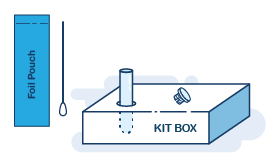
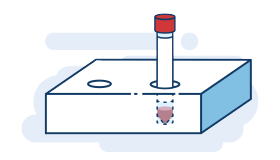
Second round of images

diff --git a/FluStudy/src/ui/screens/SurveyScreens.tsx b/FluStudy/src/ui/screens/SurveyScreens.tsx
@@ -246,6 +246,9 @@ class ScanInstructionsScreen extends React.Component<Props & WithNamespaces> {
             />
           </View>
         }
+        imageAspectRatio={1.75}
+        imageBorder={false}
+        imageSrc={require("../../img/barCodeOnBox.png")}
         navigation={this.props.navigation}
         skipButton={true}
         title={t("scanQrCode")}
@@ -253,12 +256,6 @@ class ScanInstructionsScreen extends React.Component<Props & WithNamespaces> {
           await this._onNext();
         }}
       >
-        <BorderView>
-          <Image
-            style={{ height: 180, width: 250 }}
-            source={require("../../img/barcodeBox.png")}
-          />
-        </BorderView>
         <Text content={t("tips")} style={{ marginBottom: GUTTER / 2 }} />
       </Screen>
     );
@@ -1947,8 +1944,9 @@ class CleanSecondTestScreen extends React.Component<Props & WithNamespaces> {
       <Screen
         canProceed={true}
         desc={t("description")}
-        imageBorder={true}
-        imageSrc={require("../../img/tbd.png")}
+        imageAspectRatio={1.75}
+        imageBorder={false}
+        imageSrc={require("../../img/cleanUp2ndTest.png")}
         navigation={this.props.navigation}
         title={t("title")}
         onNext={() => {
@@ -2021,8 +2019,9 @@ class StickersScreen extends React.Component<Props & WithNamespaces> {
       <Screen
         canProceed={true}
         desc={t("description")}
-        imageBorder={true}
-        imageSrc={require("../../img/tbd.png")}
+        imageAspectRatio={1.75}
+        imageBorder={false}
+        imageSrc={require("../../img/putStickersOnBox.png")}
         navigation={this.props.navigation}
         title={t("title")}
         onNext={() => {
@@ -2065,8 +2064,9 @@ class TapeBoxScreen extends React.Component<Props & WithNamespaces> {
       <Screen
         canProceed={true}
         desc={t("description")}
-        imageBorder={true}
-        imageSrc={require("../../img/tbd.png")}
+        imageAspectRatio={1.75}
+        imageBorder={false}
+        imageSrc={require("../../img/tapeUpBox.png")}
         navigation={this.props.navigation}
         title={t("title")}
         onNext={() => {

diff --git a/FluStudy/src/ui/components/NavigationBar.tsx b/FluStudy/src/ui/components/NavigationBar.tsx
@@ -50,11 +50,7 @@ class NavigationBar extends React.Component<Props & WithNamespaces> {
           style={styles.actionContainer}
           onPress={() => this.props.navigation.openDrawer()}
         >
-          <Feather
-            color={LINK_COLOR}
-            name={"menu"}
-            size={30}
-          />
+          <Feather color={LINK_COLOR} name={"menu"} size={30} />
         </TouchableOpacity>
       </View>
     );
